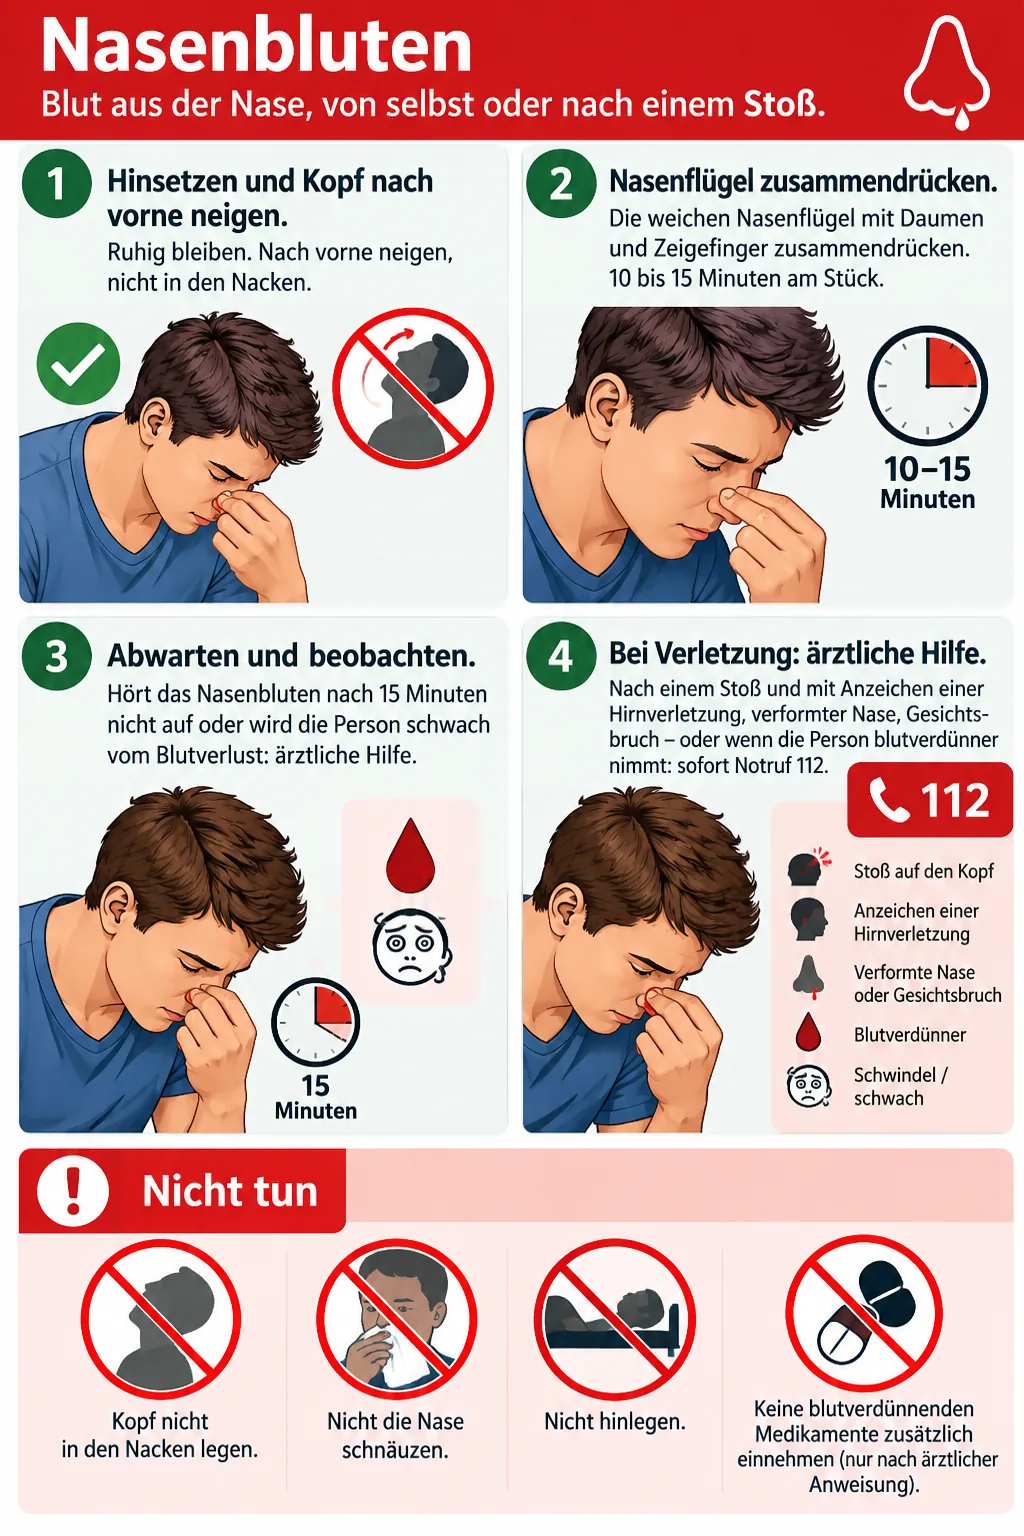
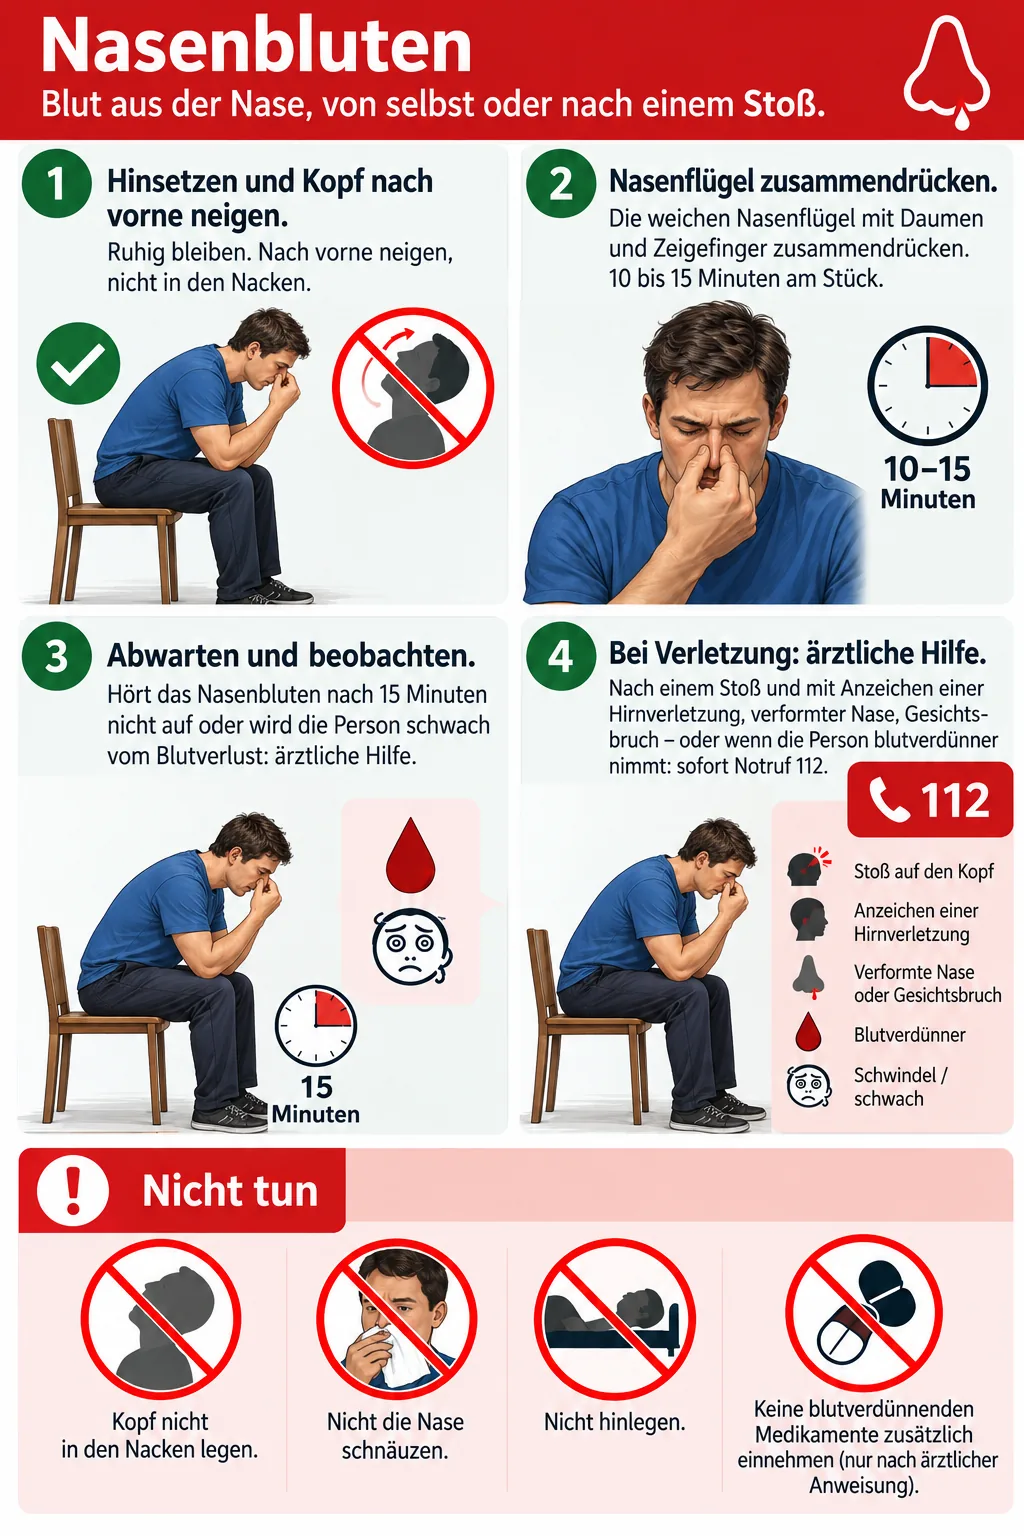
Replace nineteen first aid charts whose pictures taught it wrong
The charts had been checked against their texts, not their pictures.
Looked at for what they show, they had the breathing checked with the
mouth on the chin, a sleeping curl for the recovery position, the
hands lengthwise and high for compressions, one finger on the bridge
for a nosebleed, a choking infant flat on the lap, and pictures that
contradicted their own text: legs flat under "raise the legs", ice in
the bath, tweezers under "scrape off with a card", a ring pulled off
the forearm.

Nineteen redrawn charts replace them; one slip of the redraw is
corrected (umschließen). The infant chest thrusts now use two thumbs,
as the ERC 2025 paediatric guideline recommends. Two redrawn charts,
child CPR and head injury, are still wrong and stay out.

diff --git a/preppsuite_flutter/tool/first_aid/chart_patches.py b/preppsuite_flutter/tool/first_aid/chart_patches.py
@@ -931,6 +931,13 @@ def _cuts_and_grazes(image):
                           (1129, 1369, 1006, 12)])
 
 
+
+def _cpr_adult(image):
+    # The redrawn chart (its pictures corrected, the hands now across the
+    # lower half of the breastbone) came with a new slip of its own:
+    # "umschileßen" -> "umschließen", i and l change places.
+    _rebuilt(image, (38, 940, 160, 968), [(38, 98), (102, 106), (98, 102), (106, 160)])
+
 PATCHES = {
[1 lines of base64/hex data omitted]
         "Beine hochlagern statt nicht hochlagern", _anaphylaxis),
@@ -968,6 +975,8 @@ PATCHES = {
         "TelefonSeelsorge und telefonseelsorge.de", _suicidal_ideation),
[1 lines of base64/hex data omitted]
         "Anzeichen statt Krankzeichen", _fever),
[1 lines of base64/hex data omitted]
+        "umschließen statt umschileßen", _cpr_adult),
[1 lines of base64/hex data omitted]
         "rechter Rand ergänzt, abgeschnittene Zeilen neu; Tetanus wie im Text",
         _cuts_and_grazes),

diff --git a/docs/erste-hilfe.md b/docs/erste-hilfe.md
@@ -376,6 +376,42 @@ und die Symbole Hören, Sehen, Fühlen stammen aus zwei anderen Tafeln,
 das Bild im Kopf ist die Strichzeichnung der App. Die Figuren sind
 schlichter gezeichnet als die Bilder der übrigen Tafeln.
 
+### Die Bilder geprüft (13.10.2026)
+
+Bis hierher waren die Tafeln auf ihre Texte geprüft. Am 13.10.2026 kam
+die Prüfung der Bilder selbst dazu: Handhaltung, Kopfhaltung, was eine
+Person tut. Gefunden wurde, was der Text nie verraten hätte: Atemkontrolle
+mit dem Mund am Kinn statt dem Ohr über Mund und Nase, eine „stabile
+Seitenlage“, die eine Schlafhaltung war, die Hände bei der Herzdruckmassage
+längs und zu hoch, beim Nasenbluten ein Finger am Nasenrücken, ein Säugling
+beim Ersticken flach auf dem Schoß. Dazu Bilder, die ihrem eigenen Text
+widersprachen: die Beine flach unter „Beine hochlagern“, Eiswürfel in der
+Wanne neben „kein Eis auf die Haut“, die Pinzette unter „mit einer Karte
+abschaben“, ein Ring, der vom Unterarm gezogen wird.
+
+21 Tafeln wurden daraufhin mit korrigierten Bildern neu gezeichnet, im
+Stil der übrigen. 19 davon stimmen und ersetzen die bisherigen:
+Bewusstlose Person, Ersticken, HLW Erwachsene, Nasenbluten, Vergiftung,
+Schock, Allergischer Schock, Asthma, Tierbiss, Pseudokrupp, Verblitzte
+Augen, Quallen, Abgetrenntes Körperteil, Brust/Bauch, Hitze, Wirbelsäule,
+Krampfanfall, Schlangenbiss, Ertrinken. Bei „HLW Erwachsene“ ist ein
+neuer Tippfehler korrigiert („umschließen“). Beim Ersticken zeigt die
+Brustkompression am Säugling jetzt den Zwei-Daumen-Griff: die
+Kinder-Leitlinie des ERC 2025 empfiehlt ihn ausdrücklich statt der
+früheren zwei Finger, für Wiederbelebung und Ersticken gleich.
+
+Zwei neu gezeichnete Tafeln stimmen noch nicht und sind nicht übernommen;
+es bleibt bei den bisherigen, bis sie richtig sind:
+
+- **HLW Kinder und Säuglinge:** Die Atemkontrolle zeigt das Gesicht an
+  der Wange des Kindes, der Blick geht nicht zur Brust. Beim Kind liegen
+  die Lippen bei der Beatmung an der Nase statt um den Mund. Die Hände
+  beim Kind und die Daumen beim Säugling liegen zu hoch, nah am Hals; beim
+  Säugling im 30:2-Bild eher auf dem Bauch. Dazu „wiederbelerben“.
+- **Kopfverletzung:** Bei „Reaktion und Atmung beobachten“ liegt der
+  Helfer Nase an Nase mit dem Verletzten, statt das Ohr über Mund und Nase
+  zu halten und zur Brust zu sehen.
+
 Eine Tafel ist ein WebP in voller Größe (`assets/first_aid/de/`,
 zusammen 11 MB), angelegt mit `tool/first_aid/infographic.py`.
 
